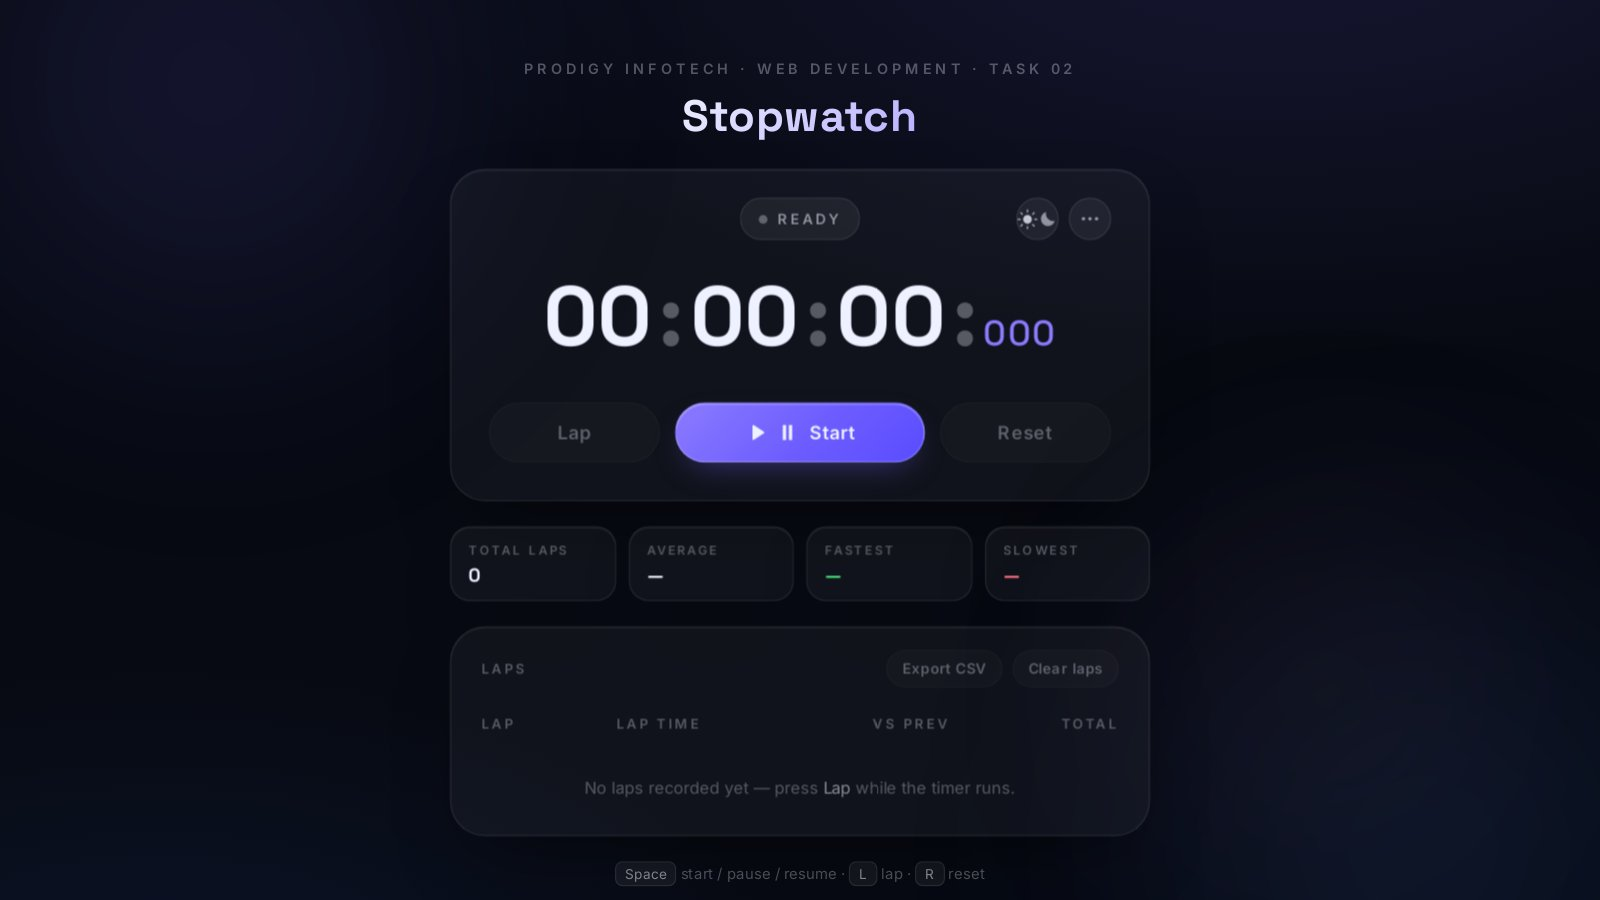
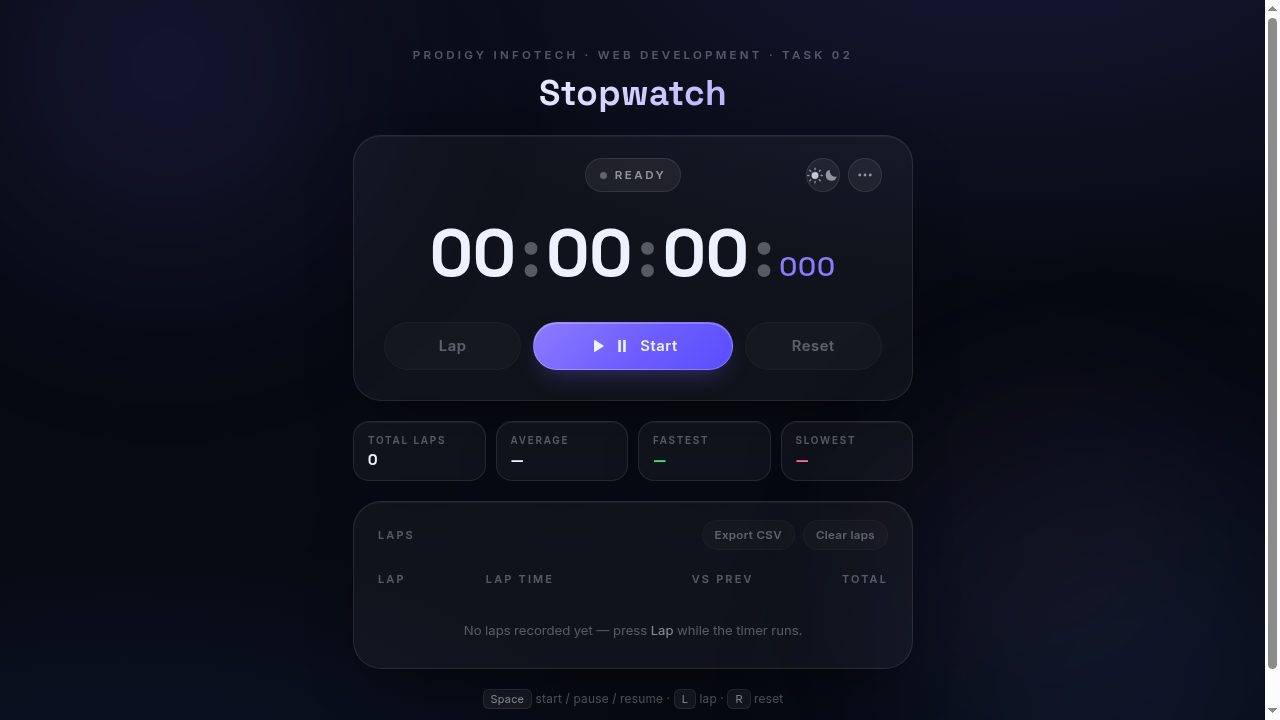
fix: targeted visual corrections from UI review
- Re-capture the Task 02 demo at a native 1280x720 viewport so the
  project preview sits in its 16:9 container without any stretch or
  crop (down from 50 KB to 41 KB), and pin aspect-ratio on the image.
- Skills: content-aware card heights (no stretching to the tallest
  card), tighter padding/margins, uniform 32px icon tiles.
- Hero: balance the portrait halo symmetrically, harmonize frame and
  portrait radii.
- Projects: consistent preview heights, trimmed desc/actions spacing,
  browser-chrome dots on the MG / FR concept panels.
Verified: zero overflow and elements spills at 1440/1024/768/480/375,
16:9 preview ratio at every width, no console or page errors, all
external links open in new tabs with noopener/noreferrer, mobile menu
Escape- and link-close correct, honest form behavior intact.

diff --git a/style.css b/style.css
@@ -455,23 +455,23 @@ textarea {
   max-width: 385px;
 }
 
-/* blurred halo + dotted orbit behind the frame */
+/* balanced halo + dotted orbit behind the frame */
 .hero-visual::before {
   content: "";
   position: absolute;
-  inset: -8%;
+  inset: -14% -12%;
   z-index: -1;
   background:
-    radial-gradient(46% 46% at 70% 24%, rgba(99, 91, 255, 0.28), transparent 70%),
-    radial-gradient(38% 38% at 22% 82%, rgba(124, 58, 237, 0.16), transparent 70%);
-  filter: blur(26px);
+    radial-gradient(56% 52% at 50% 38%, rgba(99, 91, 255, 0.22), transparent 72%),
+    radial-gradient(42% 40% at 50% 88%, rgba(124, 58, 237, 0.14), transparent 70%);
+  filter: blur(24px);
   pointer-events: none;
 }
 
 .portrait-frame {
   position: relative;
-  padding: 10px;
-  border-radius: 32px;
+  padding: 9px;
+  border-radius: 28px;
   background: var(--grad-surface);
   border: 1px solid var(--line);
   box-shadow: var(--shadow-md);
@@ -503,7 +503,7 @@ textarea {
 
 .portrait {
   position: relative;
-  border-radius: 24px;
+  border-radius: 20px;
   overflow: hidden;
   aspect-ratio: 1 / 1;
   background: var(--accent-soft);
@@ -722,6 +722,8 @@ textarea {
 
 .grid-4 {
   grid-template-columns: repeat(4, minmax(0, 1fr));
+  /* content-aware card heights: no stretching to the tallest card */
+  align-items: start;
 }
 
 .grid-3 {
@@ -880,7 +882,7 @@ textarea {
 
 /* -------------------------------- Skills -------------------------------- */
 .skill-card {
-  padding-top: 22px;
+  padding: 20px 22px;
   transition: border-color 0.2s ease, box-shadow 0.2s ease, transform 0.2s ease;
 }
 
@@ -910,19 +912,19 @@ textarea {
   display: flex;
   align-items: center;
   gap: 10px;
-  font-size: 0.96rem;
+  font-size: 0.94rem;
   font-weight: 750;
   letter-spacing: -0.01em;
-  margin-bottom: 16px;
+  margin-bottom: 12px;
 }
 
 .skill-icon {
   display: grid;
   place-items: center;
-  width: 34px;
-  height: 34px;
+  width: 32px;
+  height: 32px;
   flex: none;
-  border-radius: 10px;
+  border-radius: 9px;
   background: var(--accent-soft);
   color: var(--accent-dark);
   border: 1px solid var(--accent-line);
@@ -1150,6 +1152,7 @@ textarea {
 .project-preview img {
   width: 100%;
   height: 100%;
+  aspect-ratio: 16 / 9;
   object-fit: cover;
   object-position: top center;
   transition: transform 0.45s cubic-bezier(0.22, 0.68, 0.28, 1);
@@ -1217,6 +1220,15 @@ textarea {
   opacity: 0.4;
 }
 
+.project-preview--concept-mg .preview-chrome i {
+  background: rgba(255, 255, 255, 0.45);
+  box-shadow: 0 1px 2px rgba(30, 27, 75, 0.45);
+}
+
+.project-preview--concept-fr .preview-chrome i {
+  background: rgba(79, 70, 229, 0.28);
+}
+
 .project-preview--concept-fr::after {
   background-image: radial-gradient(rgba(79, 70, 229, 0.18) 1px, transparent 1.2px);
   opacity: 0.4;
@@ -1232,6 +1244,24 @@ textarea {
   text-transform: uppercase;
   opacity: 0.75;
   pointer-events: none;
+}
+
+/* fake browser chrome so concept panels read like previews */
+.preview-chrome {
+  position: absolute;
+  top: 10px;
+  left: 14px;
+  right: 14px;
+  display: flex;
+  align-items: center;
+  gap: 5px;
+  pointer-events: none;
+}
+
+.preview-chrome i {
+  width: 7px;
+  height: 7px;
+  border-radius: 50%;
 }
 
 .project-preview--concept-mg .preview-scanline {
@@ -1258,17 +1288,17 @@ textarea {
 
 .project-desc {
   font-size: 0.93rem;
-  line-height: 1.72;
+  line-height: 1.7;
   color: var(--ink-soft);
-  margin-bottom: 16px;
+  margin-bottom: 14px;
 }
 
 .project-note {
-  margin-top: 16px;
+  margin-top: 14px;
   padding-left: 12px;
   border-left: 2px solid var(--accent-line);
   font-size: 0.83rem;
-  line-height: 1.65;
+  line-height: 1.62;
   color: var(--muted);
 }
 
@@ -1278,7 +1308,7 @@ textarea {
   gap: 10px;
   align-items: center;
   margin-top: auto;
-  padding-top: 20px;
+  padding-top: 16px;
 }
 
 .link-muted {

diff --git a/index.html b/index.html
@@ -405,6 +405,7 @@
         <div class="grid grid-3 project-grid">
           <article class="card project-card" data-reveal>
             <div class="project-preview project-preview--concept project-preview--concept-mg" aria-hidden="true">
+              <span class="preview-chrome"><i></i><i></i><i></i></span>
               <span class="preview-letter">MG</span>
               <span class="preview-scanline">Concept preview</span>
             </div>
@@ -436,6 +437,7 @@
 
           <article class="card project-card" data-reveal>
             <div class="project-preview project-preview--concept project-preview--concept-fr" aria-hidden="true">
+              <span class="preview-chrome"><i></i><i></i><i></i></span>
               <span class="preview-letter">FR</span>
               <span class="preview-scanline">Concept preview</span>
             </div>
